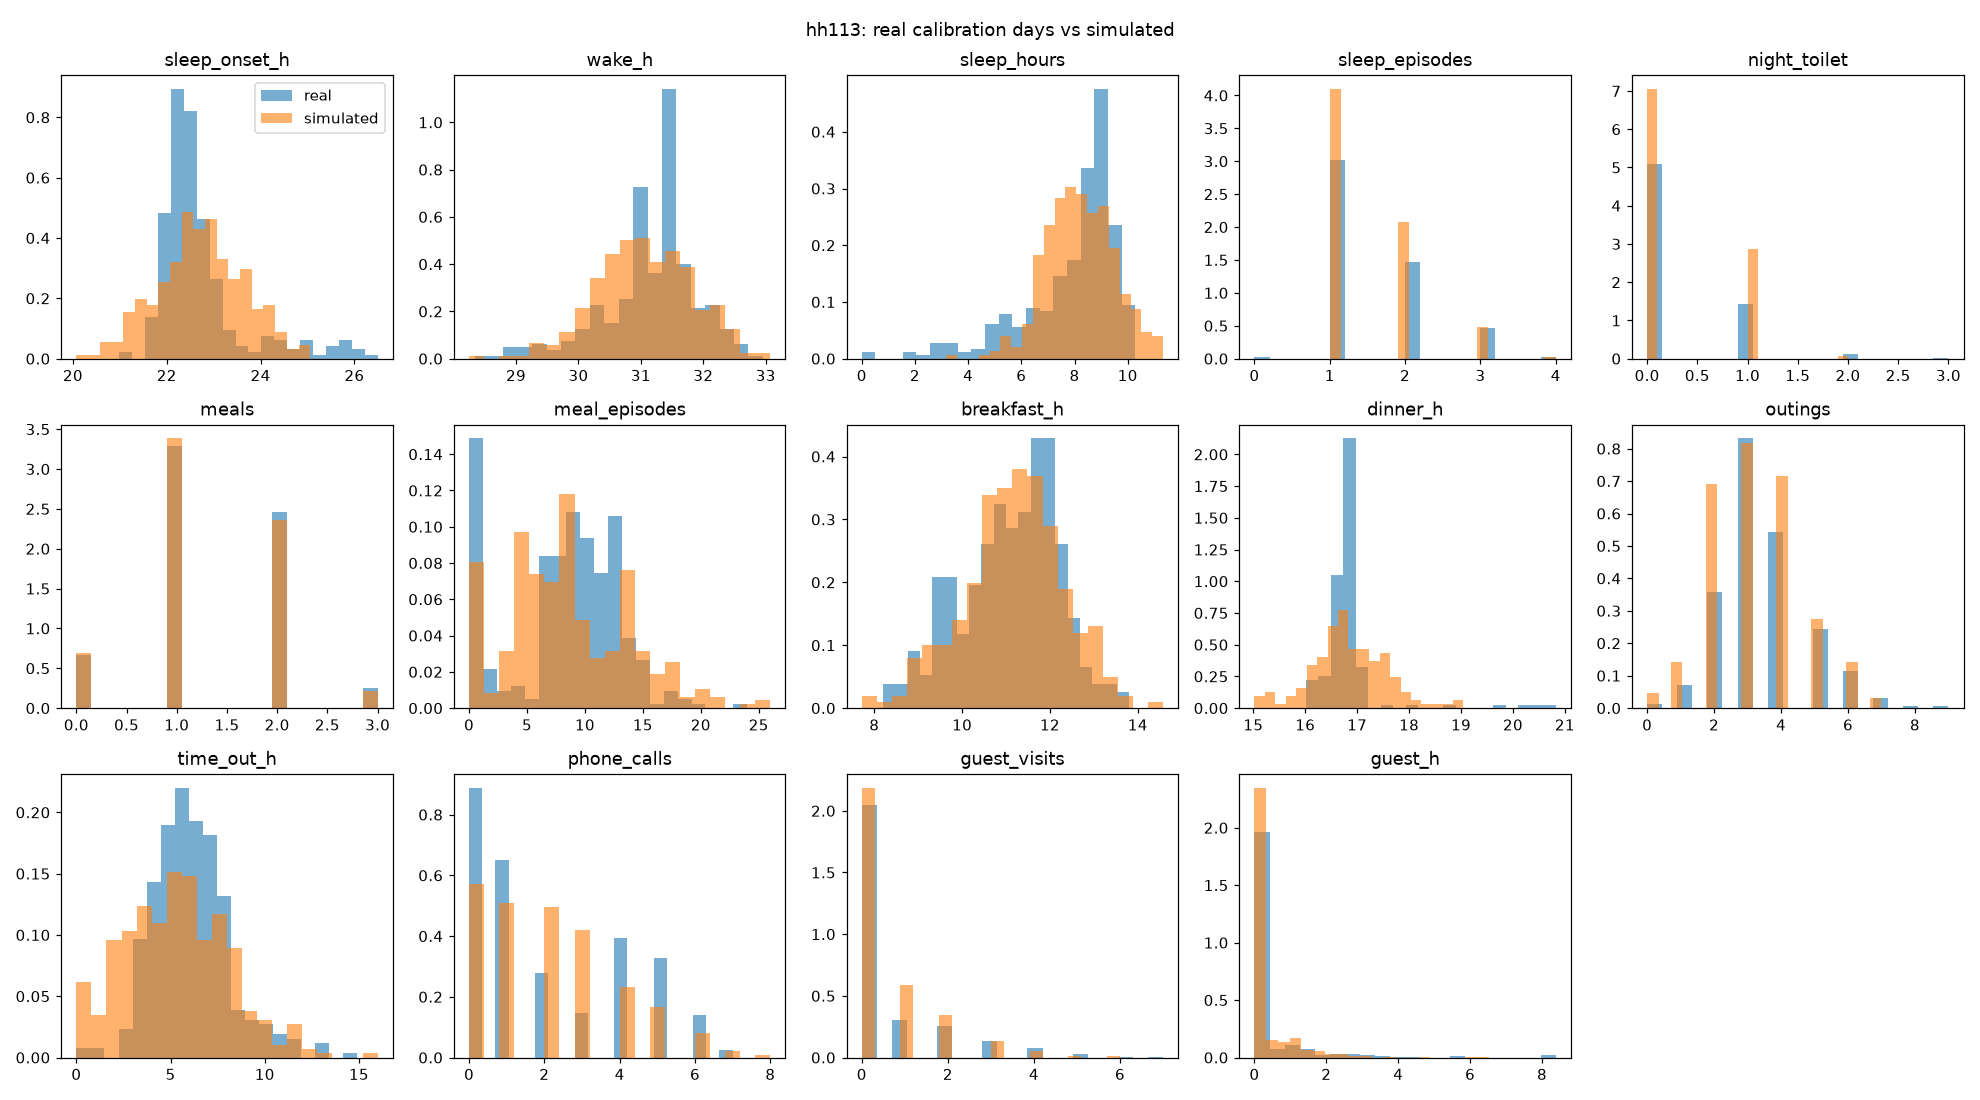
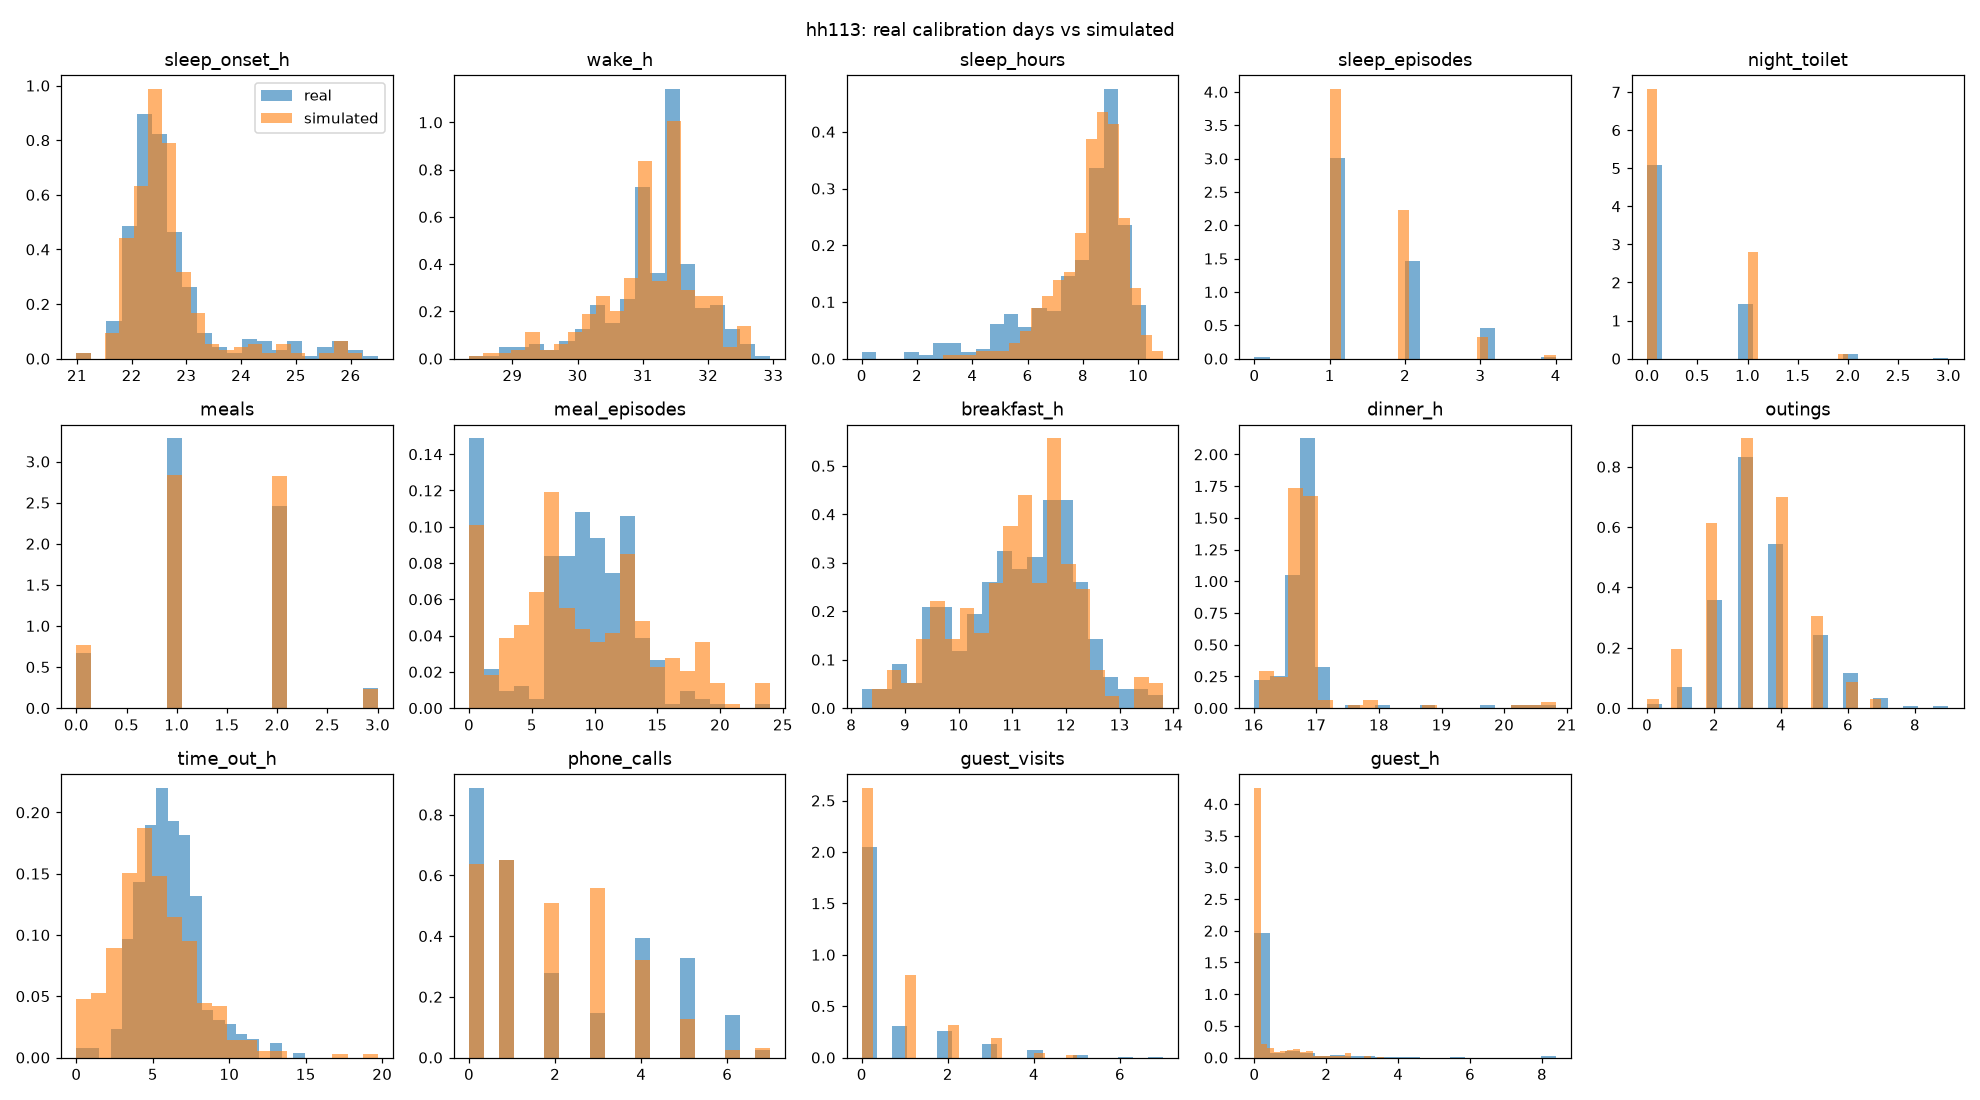
T5: validate realism of simulated normal days against real homes
KS statistic per feature and a random-forest two-sample test (AUC),
read against real-vs-real reference pairs. Timing features are now
sampled from empirical standardised residuals, which keeps the real
distribution shape while T4 can still shift and widen it; T2 and T4
outputs regenerated.

diff --git a/simadl/validate.py b/simadl/validate.py
@@ -1,0 +1,106 @@
+"""T5 — Realism of simulated normal behaviour.
+
+Compares daily-feature distributions of simulated *normal* runs with real days, using:
+  - the two-sample Kolmogorov-Smirnov statistic D per feature (0 = identical distributions), and
+  - a classifier two-sample test: a random forest tries to tell real from simulated days
+    (cross-validated AUC 0.5 = indistinguishable, 1.0 = trivially separable).
+Following SynSys, simulated-vs-real scores are read against reference pairs: the same real home in
+another period (how much reality differs from itself) and a different real home.
+
+Usage:
+    python -m simadl.validate
+"""
+import matplotlib
+matplotlib.use("Agg")
+import matplotlib.pyplot as plt
+import numpy as np
+import pandas as pd
+from scipy.stats import ks_2samp
+from sklearn.ensemble import RandomForestClassifier
+from sklearn.model_selection import cross_val_score
+
+from simadl.anomalies import DATASET
+from simadl.features import FEATURES, OUTPUTS, PROCESSED
+
+# breakfast/dinner times are missing on days without that meal; the classifier sees them as -1
+CLF_FEATURES = FEATURES
+
+
+def real_days(home: str, split: str | None = None) -> pd.DataFrame:
+    d = pd.read_csv(PROCESSED / f"{home}_daily.csv")
+    d = d[d["valid"]]
+    return d[d["split"] == split] if split else d
+
+
+def sim_normal_days(persona: str) -> pd.DataFrame:
+    d = pd.read_csv(DATASET / "daily.csv")
+    runs = d.groupby("run_id")["label"].transform(lambda s: (s == "normal").all())
+    return d[runs & (d["persona"] == persona)]
+
+
+def ks_table(a: pd.DataFrame, b: pd.DataFrame) -> pd.Series:
+    """KS D per feature; NaN when one side never has the feature (e.g. no dinners at home in a period)."""
+    return pd.Series({f: ks_2samp(a[f].dropna(), b[f].dropna()).statistic
+                      if a[f].notna().sum() > 1 and b[f].notna().sum() > 1 else np.nan for f in FEATURES})
+
+
+def _xy(a, b, seed):
+    n = min(len(a), len(b))  # balance classes
+    a, b = a.sample(n, random_state=seed), b.sample(n, random_state=seed)
+    X = pd.concat([a[CLF_FEATURES], b[CLF_FEATURES]]).fillna(-1).to_numpy()
+    return X, np.r_[np.zeros(n), np.ones(n)]
+
+
+def discriminator_importance(a: pd.DataFrame, b: pd.DataFrame, seed: int = 0) -> pd.Series:
+    """Which features let the discriminator tell the two sets apart."""
+    X, y = _xy(a, b, seed)
+    clf = RandomForestClassifier(n_estimators=200, min_samples_leaf=5, random_state=seed, n_jobs=-1).fit(X, y)
+    return pd.Series(clf.feature_importances_, index=CLF_FEATURES).sort_values(ascending=False)
+
+
+def discriminator_auc(a: pd.DataFrame, b: pd.DataFrame, seed: int = 0) -> float:
+    X, y = _xy(a, b, seed)
+    clf = RandomForestClassifier(n_estimators=200, min_samples_leaf=5, random_state=seed, n_jobs=-1)
+    return float(cross_val_score(clf, X, y, cv=5, scoring="roc_auc").mean())
+
+
+def main() -> None:
+    pairs = {
+        # name: (A, B, kind)
+        "sim hh113 vs real hh113 calibration": (sim_normal_days("hh113"), real_days("hh113", "calibration"), "fit"),
+        "sim hh113 vs real hh113 holdout": (sim_normal_days("hh113"), real_days("hh113", "holdout"), "test"),
+        "sim hh115 vs real hh115": (sim_normal_days("hh115"), real_days("hh115"), "fit"),
+        "real hh113 calibration vs holdout": (real_days("hh113", "calibration"), real_days("hh113", "holdout"), "reference"),
+        "real hh113 vs real hh115": (real_days("hh113"), real_days("hh115"), "reference"),
+        "sim hh113 vs real hh115": (sim_normal_days("hh113"), real_days("hh115"), "reference"),
+    }
+    ks, rows = {}, []
+    for name, (a, b, kind) in pairs.items():
+        ks[name] = ks_table(a, b)
+        rows.append(dict(pair=name, kind=kind, n_a=len(a), n_b=len(b), mean_KS_D=ks[name].mean(),
+                         discriminator_AUC=discriminator_auc(a, b)))
+    summary = pd.DataFrame(rows).round(3)
+    ks = pd.DataFrame(ks).round(3)
+    summary.to_csv(OUTPUTS / "t5_summary.csv", index=False)
+    ks.to_csv(OUTPUTS / "t5_ks_per_feature.csv")
+    print(summary.to_string(index=False))
+    print("\nKS statistic D per feature:")
+    print(ks.to_string())
+    imp = pd.DataFrame({name: discriminator_importance(*pairs[name][:2]) for name in
+                        ("sim hh113 vs real hh113 calibration", "sim hh115 vs real hh115")}).round(3)
+    imp.to_csv(OUTPUTS / "t5_discriminator_importance.csv")
+    print("\ndiscriminator feature importance (what gives simulated days away):")
+    print(imp.to_string())
+
+    fig, ax = plt.subplots(figsize=(12, 6))
+    cols = ["sim hh113 vs real hh113 holdout", "real hh113 calibration vs holdout", "real hh113 vs real hh115"]
+    ks[cols].plot.bar(ax=ax, width=0.8)
+    ax.set_ylabel("KS statistic D (lower = more similar)")
+    ax.set_title("Simulated vs real daily features, against real-vs-real references")
+    fig.tight_layout()
+    fig.savefig(OUTPUTS / "t5_ks.png", dpi=110)
+    plt.close(fig)
+
+
+if __name__ == "__main__":
+    main()

diff --git a/simadl/simulate.py b/simadl/simulate.py
@@ -52,6 +52,8 @@ def estimate_params(home: str) -> dict:
         p = {}
         p["sleep_onset"] = _stats(part["sleep_onset_h"])
         p["wake"] = _stats(part["wake_h"])
+        p["sleep_onset_z"] = _residuals(part["sleep_onset_h"])
+        p["wake_z"] = _residuals(part["wake_h"])
         p["night_toilet"] = _stats(part["night_toilet"])
         frag = part[part["sleep_episodes"] > 1]
         gap_h = (frag["wake_h"] - frag["sleep_onset_h"] - frag["sleep_hours"]) / (frag["sleep_episodes"] - 1)
@@ -62,6 +64,7 @@ def estimate_params(home: str) -> dict:
         for slot in SLOTS:
             p[f"{slot}_p"] = float(part[f"{slot}_h"].notna().mean())
             p[f"{slot}_h"] = _stats(part[f"{slot}_h"], default_mean={"breakfast": 8, "lunch": 12.5, "dinner": 18}[slot])
+            p[f"{slot}_h_z"] = _residuals(part[f"{slot}_h"])
         p["episodes_per_meal"] = float((part["meal_episodes"] / part["meals"].where(part["meals"] > 0)).mean())
         p["outings"] = _stats(part["outings"])
         p["time_out_mean"] = float(part["time_out_h"].mean())  # baselines used by T4 to size changes
@@ -97,8 +100,17 @@ def estimate_params(home: str) -> dict:
     return params
 
 
-def _normal(rng, ms, lo=-np.inf, hi=np.inf):
-    return float(np.clip(rng.normal(ms[0], ms[1]), lo, hi))
+def _residuals(x: pd.Series, min_n: int = 20) -> list:
+    """Standardised residuals of a real feature, so sampling keeps its real shape (skew, peaks)."""
+    x = x.dropna()
+    return ((x - x.mean()) / x.std()).round(3).tolist() if len(x) >= min_n else []
+
+
+def _normal(rng, ms, lo=-np.inf, hi=np.inf, z=None):
+    """mean + std * noise; noise is a resampled real residual when available, else standard normal.
+    Keeping (mean, std) explicit lets T4 shift and widen the distribution without losing its shape."""
+    noise = rng.choice(z) if z else rng.normal()
+    return float(np.clip(ms[0] + ms[1] * noise, lo, hi))
 
 
 def _count(rng, ms):
@@ -149,7 +161,7 @@ def _daytime_blocks(rng, p, params, day):
     blocks = []
     slots = [s for s in SLOTS if rng.random() < p[f"{s}_p"]]
     # sorted so that breakfast < lunch < dinner even when sampled times cross
-    times = sorted(_normal(rng, p[f"{s}_h"], 0, 23.9) for s in slots)
+    times = sorted(_normal(rng, p[f"{s}_h"], 0, 23.9, p[f"{s}_h_z"]) for s in slots)
     for slot, hour in zip(slots, times):
         blocks.append((0, day + pd.Timedelta(hours=hour), _meal_parts(rng, p, dur, slot)))
     if slots and rng.random() < p["repeat_meal_p"]:
@@ -202,13 +214,13 @@ def simulate(params: dict, n_days: int, seed: int = 0, start: str = START_DATE, 
     days = pd.date_range(start, periods=n_days, freq="D")
     eps = []
     first = params["weekend" if days[0].day_of_week >= 5 else "weekday"]
-    awake_from = days[0] + pd.Timedelta(hours=_normal(rng, first["wake"]) - 24)
+    awake_from = days[0] + pd.Timedelta(hours=_normal(rng, first["wake"], z=first["wake_z"]) - 24)
     for i, day in enumerate(days):
         p = dict(params["weekend" if day.day_of_week >= 5 else "weekday"])
         if modifier is not None:
             p = modifier(i, day, p)
-        onset = day + pd.Timedelta(hours=_normal(rng, p["sleep_onset"], 19, 28))
-        wake = day + pd.Timedelta(hours=_normal(rng, p["wake"], 26, 36))
+        onset = day + pd.Timedelta(hours=_normal(rng, p["sleep_onset"], 19, 28, p["sleep_onset_z"]))
+        wake = day + pd.Timedelta(hours=_normal(rng, p["wake"], 26, 36, p["wake_z"]))
         if wake - onset < pd.Timedelta(hours=2):
             wake = onset + pd.Timedelta(hours=2)
         eps += _place(_daytime_blocks(rng, p, params, day), awake_from + pd.Timedelta(minutes=15),
